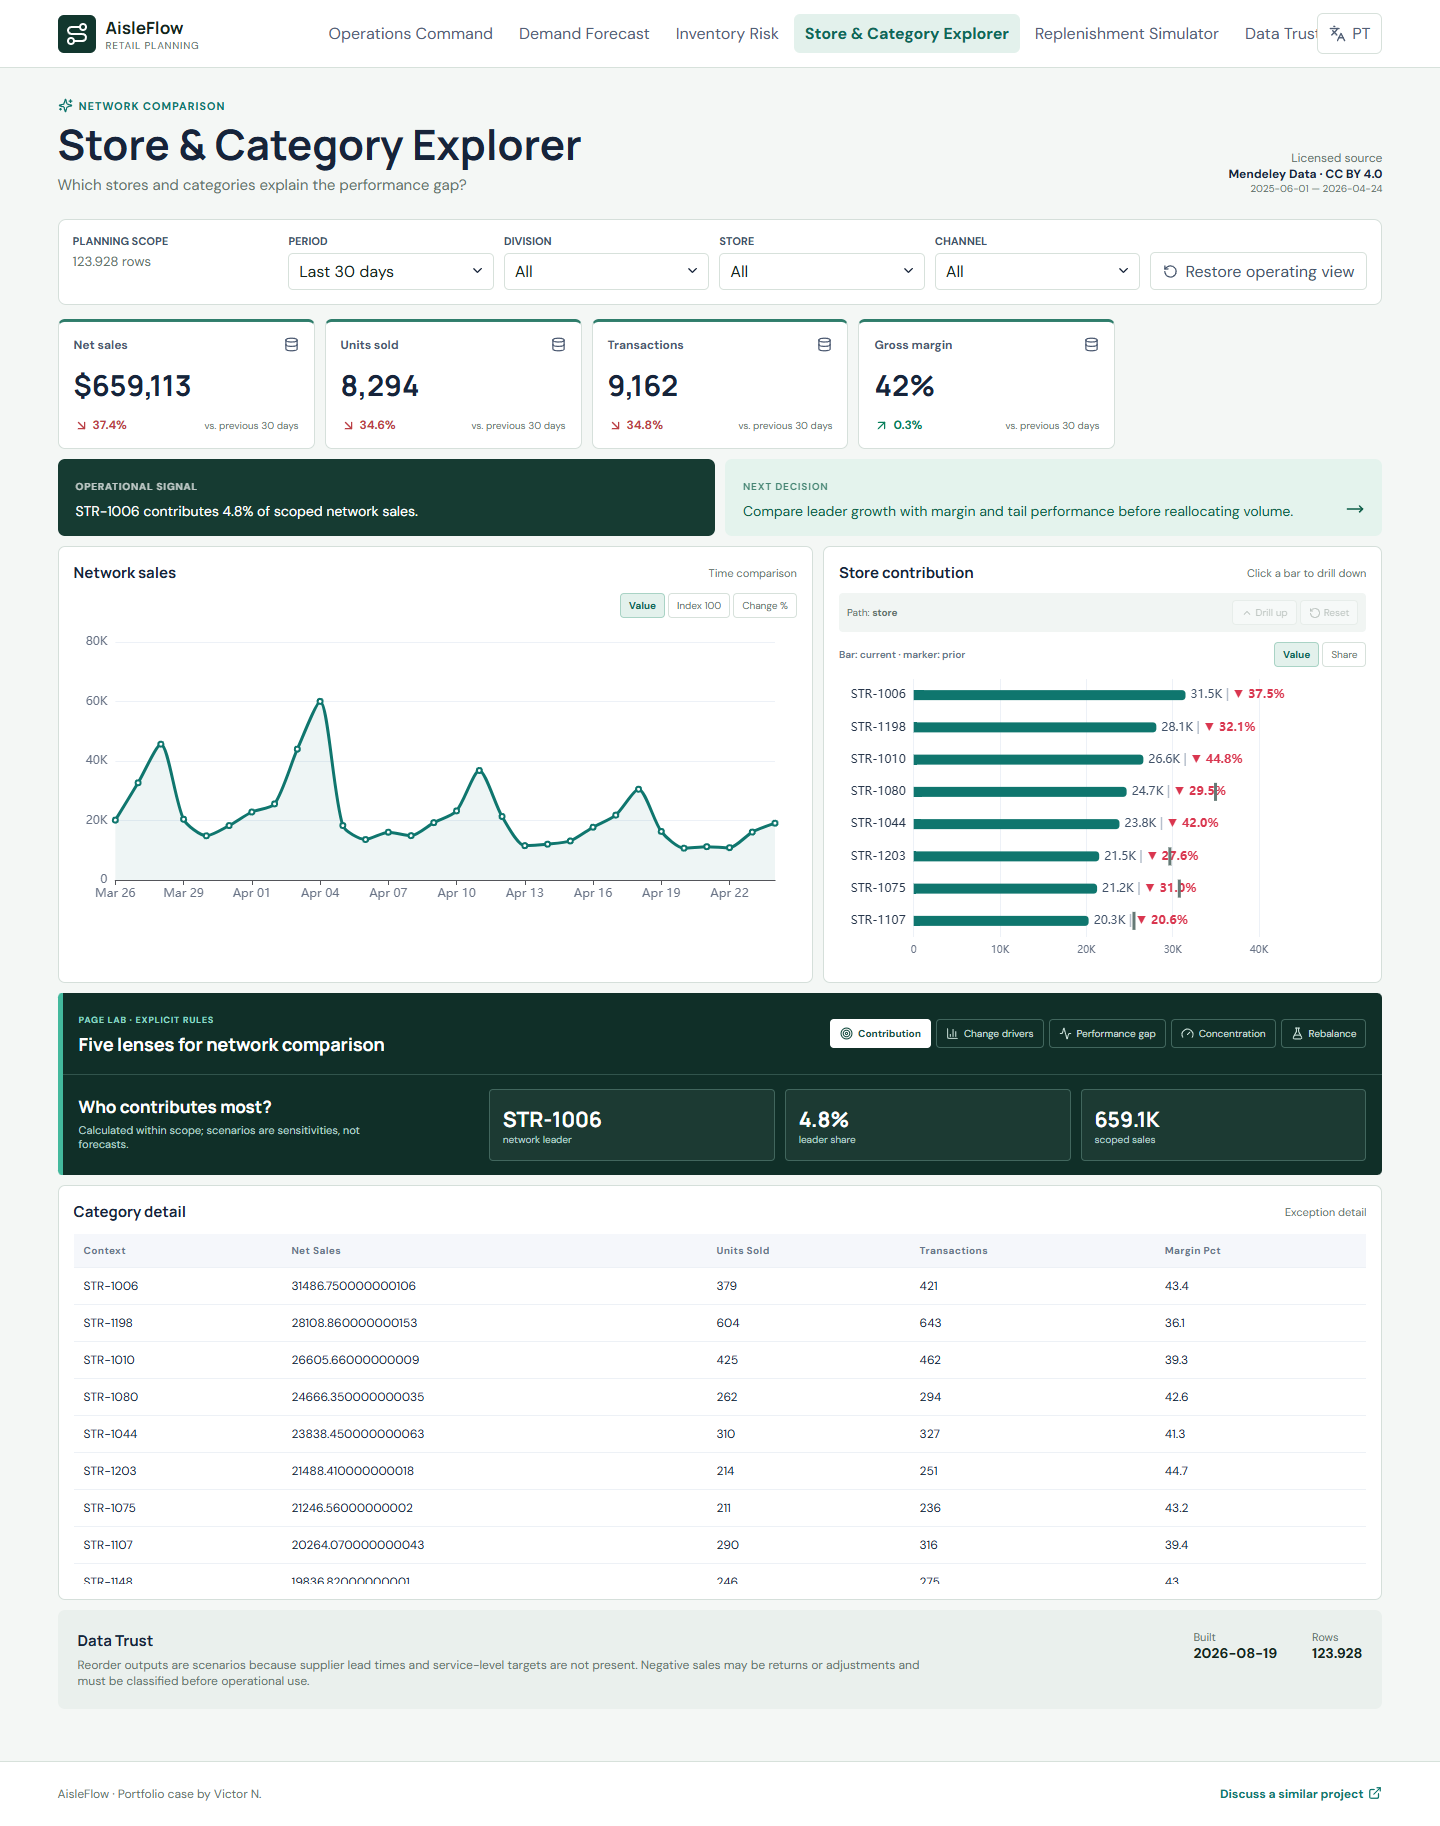
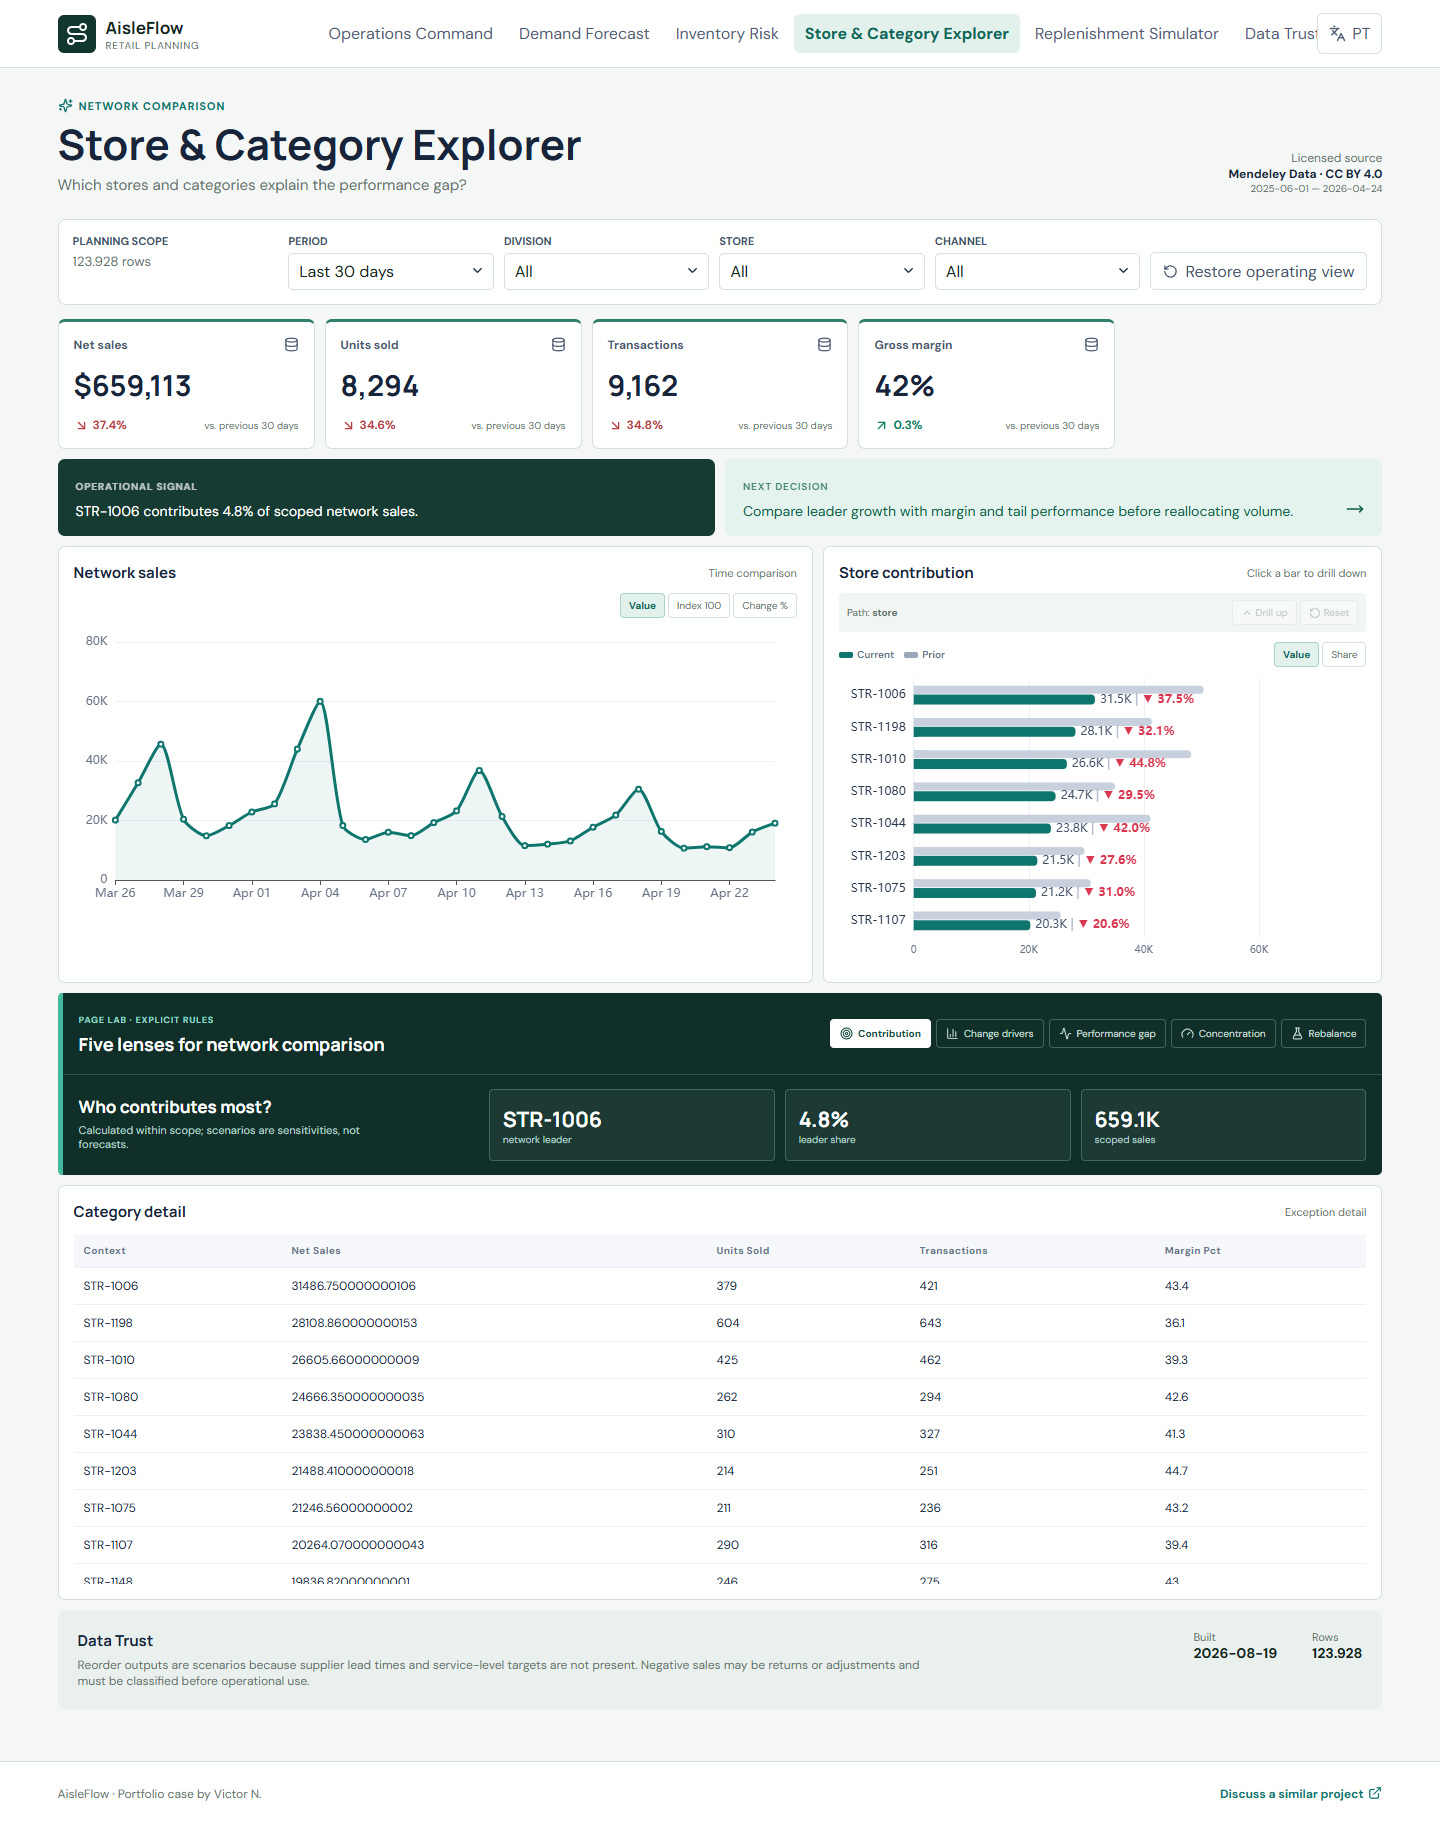
Replace prior markers with grouped comparison bars

Changed region(s): [[0.625, 0.3746, 0.875, 0.5307]]

diff --git a/src/components.tsx b/src/components.tsx
@@ -2,14 +2,14 @@ import { useMemo, useState } from 'react'
 import ReactEChartsCore from 'echarts-for-react/lib/core'
 import * as echarts from 'echarts/core'
 import { BarChart as EBarChart, LineChart as ELineChart } from 'echarts/charts'
-import { GridComponent, MarkPointComponent, TooltipComponent } from 'echarts/components'
+import { GridComponent, TooltipComponent } from 'echarts/components'
 import { CanvasRenderer } from 'echarts/renderers'
 import { LegacyGridContainLabel } from 'echarts/features'
 import { flexRender, getCoreRowModel, useReactTable } from '@tanstack/react-table'
 import { ArrowDownRight, ArrowUpRight, Database, MoveRight } from 'lucide-react'
 import type { Lang, Metric, SeriesPoint, BreakdownRow } from './types'
 
-echarts.use([EBarChart, ELineChart, GridComponent, MarkPointComponent, TooltipComponent, LegacyGridContainLabel, CanvasRenderer])
+echarts.use([EBarChart, ELineChart, GridComponent, TooltipComponent, LegacyGridContainLabel, CanvasRenderer])
 
 const number = (value: number, format: Metric['format'], lang: Lang) => {
   const locale = lang === 'pt' ? 'pt-BR' : 'en-US'
@@ -43,10 +43,11 @@ export function BarChart({ data, lang, onSelect }: { data: BreakdownRow[]; lang:
   const compact = (value: number) => new Intl.NumberFormat(lang === 'pt' ? 'pt-BR' : 'en-US', { notation: 'compact', maximumFractionDigits: 1 }).format(value)
   type LabelPoint={data:{value:number;previous:number;delta:number;hasPrevious?:boolean;isNew?:boolean}}
   const total=sorted.reduce((s,r)=>s+r.value,0),previousTotal=sorted.reduce((s,r)=>s+(r.previous??0),0),format=(v:number)=>share?`${v.toFixed(1)}%`:compact(v),seriesData=sorted.map(row=>{const value=share?(total?100*row.value/total:0):row.value,hasPrevious=row.previous!==undefined,previous=share?(previousTotal?100*(row.previous??0)/previousTotal:0):(row.previous??0),delta=previous?100*(value-previous)/Math.abs(previous):0;return{value,previous,delta,hasPrevious,isNew:hasPrevious&&previous===0}}),comparison=(p:LabelPoint,rich=false)=>!p.data.hasPrevious?(rich?`{neutral|${lang==='pt'?'sem anterior':'no prior'}}`:(lang==='pt'?'sem anterior':'no prior')):p.data.isNew?(rich?`{new|${lang==='pt'?'nova':'new'}}`:(lang==='pt'?'nova':'new')):rich?`{${p.data.delta>=0?'up':'down'}|${p.data.delta>=0?'▲':'▼'} ${Math.abs(p.data.delta).toFixed(1)}%}`:`${p.data.delta>=0?'▲':'▼'} ${Math.abs(p.data.delta).toFixed(1)}%`,label=(p:LabelPoint)=>`{value|${format(p.data.value)}} {divider||} ${comparison(p,true)}`
-  const previousMarkers=seriesData.flatMap((row,index)=>row.hasPrevious?[{coord:[row.previous,index],symbol:'rect',symbolSize:[3,18]}]:[])
-  const currentSeries={name:lang==='pt'?'Período atual':'Current period',type:'bar',data:seriesData,barWidth:10,itemStyle:{color:'#0f766e',borderRadius:[0,4,4,0]},emphasis:{disabled:true},markPoint:{silent:true,label:{show:false},itemStyle:{color:'#657a76'},data:previousMarkers},z:2,label:{show:true,position:'right',formatter:label,rich:{value:{color:'#415269'},divider:{color:'#aab4c3'},up:{color:'#07855b',fontWeight:700},down:{color:'#d9364f',fontWeight:700},new:{color:'#1f6feb',fontWeight:700},neutral:{color:'#7c8798'}}}}
-  const option={animationDuration:350,grid:{left:12,right:108,top:12,bottom:12,containLabel:true},tooltip:{trigger:'item',formatter:(p:{name:string}&LabelPoint)=>`${p.name}<br/>${format(p.data.value)} | ${comparison(p)}`},xAxis:{type:'value',splitNumber:3,max:share?100:undefined,splitLine:{lineStyle:{color:'#edf1f7'}},axisLabel:{color:'#697386',fontSize:10,hideOverlap:true,formatter:format}},yAxis:{type:'category',data:sorted.map(d=>d.name),axisLine:{show:false},axisTick:{show:false},axisLabel:{color:'#27364b',width:130,overflow:'truncate'}},series:[currentSeries]}
-  return <><div className="chart-modes"><small className="comparison-key">{lang==='pt'?'Barra: atual · marca: anterior':'Bar: current · marker: prior'}</small><button className={!share?'active':''} onClick={()=>setShare(false)}>{lang==='pt'?'Valor':'Value'}</button><button className={share?'active':''} onClick={()=>setShare(true)}>{lang==='pt'?'Participação':'Share'}</button></div><div className="chart-viewport"><ReactEChartsCore echarts={echarts} option={option} onEvents={onSelect?{click:(params:{name:string})=>onSelect(params.name)}:undefined} style={{height:300,width:'100%'}}/></div></>
+  const priorSeries={name:lang==='pt'?'Período anterior':'Prior period',type:'bar',data:seriesData.map(row=>row.hasPrevious?row.previous:null),barWidth:8,itemStyle:{color:'#c7d0dc',borderRadius:[0,4,4,0]},emphasis:{disabled:true}}
+  const currentSeries={name:lang==='pt'?'Período atual':'Current period',type:'bar',data:seriesData,barWidth:10,itemStyle:{color:'#0f766e',borderRadius:[0,4,4,0]},emphasis:{disabled:true},z:2,label:{show:true,position:'right',formatter:label,rich:{value:{color:'#415269'},divider:{color:'#aab4c3'},up:{color:'#07855b',fontWeight:700},down:{color:'#d9364f',fontWeight:700},new:{color:'#1f6feb',fontWeight:700},neutral:{color:'#7c8798'}}}}
+  const tooltip=(params:Array<{dataIndex:number}>)=>{const index=params[0]?.dataIndex??0,row=seriesData[index],name=sorted[index]?.name??'',color=row.delta>=0?'#07855b':'#d9364f';return `<b>${name}</b><br/>${lang==='pt'?'Atual':'Current'}: ${format(row.value)}<br/>${lang==='pt'?'Anterior':'Prior'}: ${row.hasPrevious?format(row.previous):'—'}<br/>${lang==='pt'?'Variação':'Change'}: <span style="color:${color};font-weight:700">${comparison({data:row})}</span>`}
+  const option={animationDuration:350,grid:{left:12,right:108,top:12,bottom:12,containLabel:true},tooltip:{trigger:'axis',axisPointer:{type:'shadow'},formatter:tooltip},xAxis:{type:'value',splitNumber:3,max:share?100:undefined,splitLine:{lineStyle:{color:'#edf1f7'}},axisLabel:{color:'#697386',fontSize:10,hideOverlap:true,formatter:format}},yAxis:{type:'category',data:sorted.map(d=>d.name),axisLine:{show:false},axisTick:{show:false},axisLabel:{color:'#27364b',width:130,overflow:'truncate'}},series:[priorSeries,currentSeries]}
+  return <><div className="chart-modes"><small className="comparison-key"><span><i className="current"/> {lang==='pt'?'Atual':'Current'}</span><span><i className="prior"/> {lang==='pt'?'Anterior':'Prior'}</span></small><button className={!share?'active':''} onClick={()=>setShare(false)}>{lang==='pt'?'Valor':'Value'}</button><button className={share?'active':''} onClick={()=>setShare(true)}>{lang==='pt'?'Participação':'Share'}</button></div><div className="chart-viewport"><ReactEChartsCore echarts={echarts} option={option} onEvents={onSelect?{click:(params:{name:string})=>onSelect(params.name)}:undefined} style={{height:300,width:'100%'}}/></div></>
 }
 
 export function DataGrid({ rows }: { rows: Record<string, string | number>[] }) {

diff --git a/src/styles.css b/src/styles.css
@@ -16,3 +16,4 @@ body{background:#f4f7f5}.brand-mark{border-radius:6px;background:#12372e}.topbar
 .ops-lab{margin:10px 0;background:#102f28;color:#fff;border-radius:5px;overflow:hidden;border-left:5px solid #43b99d}.ops-lab-head{padding:14px 16px;display:flex;justify-content:space-between;align-items:center;gap:18px;border-bottom:1px solid #31544c}.ops-lab-head span{font-size:9px;letter-spacing:.08em;color:#8ed7c4;font-weight:700}.ops-lab-head h2{font:700 18px Manrope;margin:4px 0}.ops-lab-head>div:last-child{display:flex;gap:5px;flex-wrap:wrap;justify-content:flex-end}.ops-lab-head button{display:flex;align-items:center;gap:5px;padding:7px 9px;border:1px solid #41665d;background:transparent;color:#c8ded7;border-radius:4px;font-size:10px;cursor:pointer}.ops-lab-head button svg{width:13px;height:13px}.ops-lab-head button.active{background:#fff;color:#174d41;border-color:#fff;font-weight:700}.ops-lab-body{min-height:100px;padding:14px 16px;display:grid;grid-template-columns:1.4fr repeat(3,1fr);gap:10px}.ops-copy{display:flex;flex-direction:column;justify-content:center}.ops-copy b{font:700 17px Manrope}.ops-copy p{font-size:11px;color:#b8d3cc;margin:5px 0;max-width:300px}.ops-lab-body>article,.ops-lab-body>label{padding:11px 13px;border:1px solid #41665d;background:rgba(255,255,255,.05);border-radius:4px;display:flex;flex-direction:column;justify-content:center}.ops-lab-body article strong{font:700 21px Manrope}.ops-lab-body article span{font-size:10px;color:#b8d3cc}.ops-lab-body article.risk{border-color:#d98b68}.ops-lab-body>label{gap:9px;font-size:11px}.ops-lab-body>label span{display:flex;justify-content:space-between}.ops-lab-body input{width:100%;accent-color:#43b99d}.ops-driver-list{grid-column:2/-1;display:grid;gap:7px;align-content:center}.ops-driver-list>div{display:grid;grid-template-columns:105px 1fr 90px;gap:9px;align-items:center;font-size:10px}.ops-driver-list i{height:7px;background:#31544c;border-radius:4px;overflow:hidden}.ops-driver-list i b{display:block;height:100%;background:#43b99d}.ops-driver-list strong{text-align:right}.positive{color:#68d7bb}.negative{color:#f2a081}@media(max-width:1000px){.ops-lab-head{align-items:flex-start;flex-direction:column}.ops-lab-head>div:last-child{justify-content:flex-start}.ops-lab-body{grid-template-columns:1fr 1fr}.ops-copy,.ops-driver-list{grid-column:1/-1}}@media(max-width:640px){.ops-lab-head>div:last-child{display:grid;grid-template-columns:1fr 1fr;width:100%}.ops-lab-head button{justify-content:center}.ops-lab-body{grid-template-columns:1fr}.ops-driver-list>div{grid-template-columns:76px 1fr 72px}}
 .comparison-key{align-self:center;margin-right:auto;color:#66758a;font-size:10px;font-weight:600;white-space:nowrap}
 .chart-viewport{max-width:100%}.chart-viewport>div,.chart-viewport canvas{max-width:100%!important}
+.comparison-key{display:flex;align-items:center;gap:10px}.comparison-key span{display:inline-flex;align-items:center;gap:4px}.comparison-key i{display:inline-block;width:14px;height:6px;border-radius:2px}.comparison-key i.current{background:#0f766e}.comparison-key i.prior{background:#9aa7b8}

diff --git a/docs/DASHBOARD_QUALITY_REVIEW.md b/docs/DASHBOARD_QUALITY_REVIEW.md
@@ -14,7 +14,7 @@
 ## Visual and analytical rules
 
 - KPI cards report period outcomes; exception charts and tables identify where action is needed.
-- Bars show the current period and compact reference markers show the comparable prior period.
+- Grouped bars show current and comparable prior periods side by side; the tooltip reports both values and their change.
 - Favorable and unfavorable movement uses semantic color, including margin and inventory risk.
 - The five-lens lab separates priority, coverage, drivers, variability and scenario analysis.
 - Reorder quantities are scenarios because supplier lead time and service-level targets are absent.
